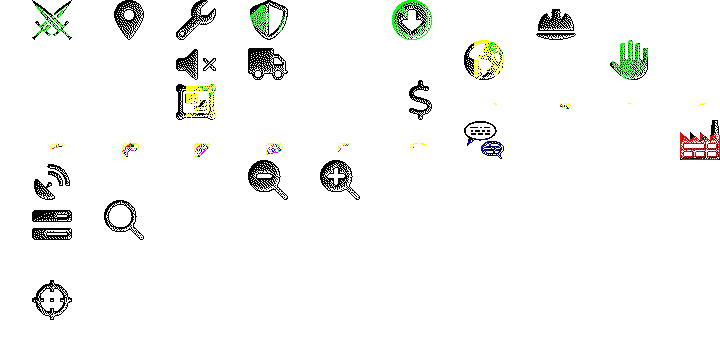
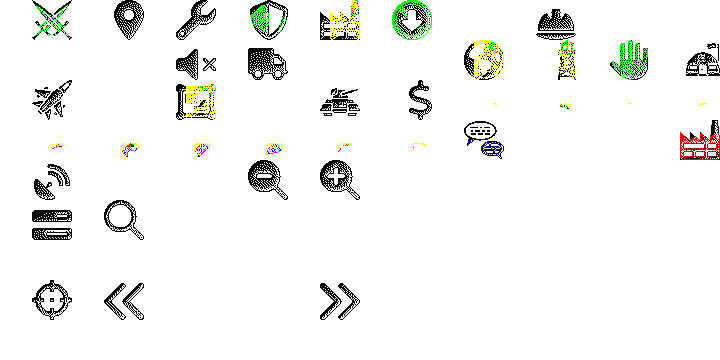
OpenRA: Dune 2000 overlay; each mod's production tabs and power down
A third set, openra_d2k_template, for OpenRA's Dune 2000 mod: the window
title "Dune 2000" under openra, and the Windows launcher Dune2000.exe. Its
ESC mark is OpenRA's d2k_256x256.png planet, outline lit and shading
dithered, beside OPEN D2K. It has no game-art reader.

The sets were built from mods/common/hotkeys only. Each mod also has its own
mods/<mod>/hotkeys.yaml with the production tab keys and power down, which
were missing:
- Red Alert: E buildings, R defenses, T infantry, Y vehicles, U aircraft,
  I naval, X power down
- Tiberian Dawn: E, R, T, Y, U as Red Alert; Page Up / Down previous / next tab
- Dune 2000: E buildings, R upgrades, T infantry, Y light vehicles,
  U aircraft, I tanks, O starport, X power down
gen_mods.py writes each mod's own block, and drops the game-art block for
Dune 2000. F1 to F12 stay out: they are the items of the open tab.

Claude-Session: https://claude.ai/code/session_01Hs9SNTuYKh6YvuVcPf5MKZ

diff --git a/polyhost/res/overlay_sources/openra/gen_mods.py b/polyhost/res/overlay_sources/openra/gen_mods.py
@@ -1,47 +1,100 @@
 #!/usr/bin/env python3
-"""Write openra_cnc.yaml (OpenRA, Tiberian Dawn mod) from openra_ra.yaml.
+"""Write openra_cnc.yaml (Tiberian Dawn) and openra_d2k.yaml (Dune 2000) from
+openra_ra.yaml.
 
-All OpenRA mods share their default keys, so only the name, the output file,
-the ESC mark and the game-art block differ; this copies the Red Alert spec,
-changes those lines and puts cnc_game_assets.yaml in place of its game-art
-block (everything from GAME_ASSETS on).
+All OpenRA mods share most of their default keys. Each copy changes the name,
+the output file and the ESC mark, puts the mod's own keys (production tabs,
+power down; mods/<mod>/hotkeys.yaml in OpenRA) in place of the Red Alert ones,
+and puts the mod's game-art block (or none) in place of the Red Alert block
+(everything from GAME_ASSETS on).
 
     python polyhost/res/overlay_sources/openra/gen_mods.py
 """
 from pathlib import Path
 
 HERE = Path(__file__).resolve().parent
-CHANGES = {
-    "app: openra_ra\n": "app: openra_cnc\n",
-    "output: openra_ra_template\n": "output: openra_cnc_template\n",
-    "program_icon: program_ra.png\n": "program_icon: program_cnc.png\n",
-}
+MOD_KEYS = "  # Production tabs and power: each mod's own keys"
+END_MOD_KEYS = "  # End of the mod keys"
 GAME_ASSETS = "# Keys redrawn from the user's own Red Alert files"
 
 
-def render() -> str:
-    """The text of openra_cnc.yaml for the current openra_ra.yaml."""
+def _tab(key, icon, label):
+    return f'  - {{ key: {key}, icon: {icon}.png, label: "{label}" }}\n'
+
+
+MODS = {
+    "cnc": {
+        "title": "Tiberian Dawn",
+        "keys": [_tab("E", "tabstructures", "Production tab: buildings"),
+                 _tab("R", "tabdefense", "Production tab: defenses"),
+                 _tab("T", "tabinfantry", "Production tab: infantry"),
+                 _tab("Y", "tabvehicles", "Production tab: vehicles"),
+                 _tab("U", "tabaircraft", "Production tab: aircraft"),
+                 _tab("PGUP", "prevtab", "Previous production tab"),
+                 _tab("PGDN", "nexttab", "Next production tab")],
+        "game_assets": "cnc_game_assets.yaml",
+    },
+    "d2k": {
+        "title": "Dune 2000",
+        "keys": [_tab("E", "tabstructures", "Production tab: buildings"),
+                 _tab("R", "tabupgrade", "Production tab: upgrades"),
+                 _tab("T", "tabinfantry", "Production tab: infantry"),
+                 _tab("Y", "tablight", "Production tab: light vehicles"),
+                 _tab("U", "tabaircraft", "Production tab: aircraft"),
+                 _tab("I", "tabvehicles", "Production tab: tanks"),
+                 _tab("O", "tabstarport", "Production tab: starport"),
+                 _tab("X", "powerdown", "Power down")],
+        "game_assets": None,                   # no reader for the Dune 2000 files
+    },
+}
+
+
+def render(mod: str) -> str:
+    """The text of openra_<mod>.yaml for the current openra_ra.yaml."""
+    spec = MODS[mod]
+    changes = {
+        "app: openra_ra\n": f"app: openra_{mod}\n",
+        "output: openra_ra_template\n": f"output: openra_{mod}_template\n",
+        "program_icon: program_ra.png\n": f"program_icon: program_{mod}.png\n",
+    }
     lines = (HERE / "openra_ra.yaml").read_text(encoding="utf-8").splitlines(keepends=True)
     out = ["# GENERATED by gen_mods.py from openra_ra.yaml -- edit that file, not this one.\n",
-           "# OpenRA, Tiberian Dawn mod.\n"]
-    seen = set()
+           f"# OpenRA, {spec['title']} mod.\n"]
+    seen, in_keys = set(), False
     for line in lines:
         if line.startswith(GAME_ASSETS):
             seen.add(GAME_ASSETS)
-            out.append((HERE / "cnc_game_assets.yaml").read_text(encoding="utf-8"))
+            if spec["game_assets"]:
+                out.append((HERE / spec["game_assets"]).read_text(encoding="utf-8"))
+            else:
+                while out and out[-1] == "\n":   # no blank line left at the end
+                    out.pop()
             break
-        if line in CHANGES:
+        if line.startswith(MOD_KEYS):
+            seen.add(MOD_KEYS)
+            in_keys = True
+            out.append(line)
+            out.extend(spec["keys"])
+            continue
+        if in_keys:
+            if line.startswith(END_MOD_KEYS):
+                seen.add(END_MOD_KEYS)
+                in_keys = False
+                out.append(line)
+            continue
+        if line in changes:
             seen.add(line)
-            line = CHANGES[line]
+            line = changes[line]
         out.append(line)
-    missing = (set(CHANGES) | {GAME_ASSETS}) - seen
+    missing = (set(changes) | {GAME_ASSETS, MOD_KEYS, END_MOD_KEYS}) - seen
     assert not missing, f"openra_ra.yaml no longer has: {missing}"
     return "".join(out)
 
 
 def main() -> int:
-    (HERE / "openra_cnc.yaml").write_text(render(), encoding="utf-8")
-    print("openra_cnc.yaml written")
+    for mod in MODS:
+        (HERE / f"openra_{mod}.yaml").write_text(render(mod), encoding="utf-8")
+        print(f"openra_{mod}.yaml written")
     return 0
 
 

diff --git a/polyhost/res/overlay_sources/openra/fetch_icons.py b/polyhost/res/overlay_sources/openra/fetch_icons.py
@@ -32,6 +32,7 @@ CNC_ICONS = Path(__file__).resolve().parents[1] / "cnc_remastered" / "icons"
 
 # The same action as in the C&C Remastered overlay: the same picture.
 SHARED = ["stop", "guard", "scatter", "selectall", "conyard", "lastevent", "tabstructures",
+          "tabinfantry", "tabvehicles",
           *(f"bookmark{n}" for n in "1234"), *(f"bookmarkset{n}" for n in "1234")]
 
 ICONS = {
@@ -47,6 +48,16 @@ ICONS = {
     "harvesters": "fa:truck",
     "toselection": "fa:crosshairs",
     "cycleproduction": "fa:industry",
+    # Production tabs (each mod's own keys, gen_mods.py) and power
+    "tabdefense": "gi:delapouite/watchtower",
+    "tabaircraft": "gi:delapouite/jet-fighter",
+    "tabnaval": "fa:ship",
+    "tabupgrade": "gi:delapouite/upgrade",
+    "tablight": "gi:delapouite/jeep",
+    "tabstarport": "gi:delapouite/space-shuttle",
+    "prevtab": "fa:angles-left",
+    "nexttab": "fa:angles-right",
+    "powerdown": "fa:power-off",
     # Base
     "sell": "fa:dollar-sign",
     "repair": "fa:wrench",
@@ -63,10 +74,12 @@ ICONS = {
     "allchat": "gi:delapouite/megaphone",
 }
 
-# OpenRA's mod logos, GPL-3.0 like the rest of the OpenRA repository.
-LOGO_URL = ("https://raw.githubusercontent.com/OpenRA/OpenRA/"
-            "cd207614b55d53bd2897408386fcec8a1f48cce0/packaging/artwork/{}_scalable.svg")
-MODS = {"ra": "RA", "cnc": "C&C"}          # logo file stem -> the name beside it
+# OpenRA's mod logos, GPL-3.0 like the rest of the OpenRA repository. Dune 2000
+# has no SVG logo there, only PNGs; the 256 px one is used.
+ARTWORK = ("https://raw.githubusercontent.com/OpenRA/OpenRA/"
+           "cd207614b55d53bd2897408386fcec8a1f48cce0/packaging/artwork/")
+LOGOS = {"ra": "ra_scalable.svg", "cnc": "cnc_scalable.svg", "d2k": "d2k_256x256.png"}
+MODS = {"ra": "RA", "cnc": "C&C", "d2k": "D2K"}   # logo file stem -> the name beside it
 
 MARK = 13                                   # size of a group's modifier mark, px
 
@@ -122,14 +135,21 @@ def programs(out: Path) -> None:
     import numpy as np
     from PIL import Image
     for stem, name in MODS.items():
-        svg = _get(LOGO_URL.format(stem))
-        im = Image.open(io.BytesIO(cairosvg.svg2png(bytestring=svg, output_width=320, output_height=320)))
+        data = _get(ARTWORK + LOGOS[stem])
+        if LOGOS[stem].endswith(".svg"):
+            data = cairosvg.svg2png(bytestring=data, output_width=320, output_height=320)
+        im = Image.open(io.BytesIO(data))
         a = np.asarray(im.convert("RGBA")).astype(float) / 255
         lum = a[..., :3] @ [0.299, 0.587, 0.114]
-        ink = Image.fromarray((((a[..., 3] > 0.5) & (lum < 0.4)) * 255).astype(np.uint8))
-        ink = ink.crop(ink.getbbox())
-        s = min(36 / ink.width, 36 / ink.height)
-        logo = np.asarray(ink.resize((round(ink.width * s), round(ink.height * s)), Image.LANCZOS)) > 127
+        if LOGOS[stem].endswith(".svg"):
+            ink = Image.fromarray((((a[..., 3] > 0.5) & (lum < 0.4)) * 255).astype(np.uint8))
+            ink = ink.crop(ink.getbbox())
+            s = min(36 / ink.width, 36 / ink.height)
+            logo = np.asarray(ink.resize((round(ink.width * s), round(ink.height * s)), Image.LANCZOS)) > 127
+        else:
+            # A shaded picture (the planet and its moons) has no linework: its
+            # outline is lit and its shading dithered, as for the unit icons.
+            logo = dither.keycap(lum, a[..., 3] > 0.5, (36, 36), lo_p=5, hi_p=95, curve=0.6)
         w, h = program_mark.W, program_mark.H
         canvas = np.zeros((h, w), bool)
         y = (h - logo.shape[0]) // 2
@@ -147,7 +167,7 @@ def programs(out: Path) -> None:
             canvas[y:y + m.shape[0], x:x + m.shape[1]] = m
             y += m.shape[0] + 3
         cnc._save_mask(canvas, out / f"program_{stem}.png")
-        print(f"  program_{stem}.png  <- OpenRA {stem}_scalable.svg + OPEN {name}")
+        print(f"  program_{stem}.png  <- OpenRA {LOGOS[stem]} + OPEN {name}")
 
 
 def main() -> int:

diff --git a/tests/services/game_assets_ra_test.py b/tests/services/game_assets_ra_test.py
@@ -273,13 +273,14 @@ class OpenRaSpecTest(unittest.TestCase):
                     if base is not None:
                         self.assertIn(base, got, f"{stem} marks nothing")
 
-    def test_the_tiberian_dawn_spec_is_generated_from_the_current_files(self):
+    def test_the_other_mods_specs_are_generated_from_the_current_files(self):
         import importlib.util
         spec = importlib.util.spec_from_file_location("gen_mods", SOURCES / "gen_mods.py")
         gen = importlib.util.module_from_spec(spec)
         spec.loader.exec_module(gen)
-        self.assertEqual(gen.render(), TD_SPEC.read_text(encoding="utf-8"),
-                         "run overlay_sources/openra/gen_mods.py")
+        for mod in gen.MODS:
+            self.assertEqual(gen.render(mod), (SOURCES / f"openra_{mod}.yaml").read_text(encoding="utf-8"),
+                             "run overlay_sources/openra/gen_mods.py")
 
     def test_the_mapping_registers_both_overlays_and_the_nested_one(self):
         import yaml

diff --git a/polyhost/res/overlay_sources/openra/SOURCES.md b/polyhost/res/overlay_sources/openra/SOURCES.md
@@ -1,27 +1,44 @@
 # OpenRA overlay: sources
 
-`fetch_icons.py` rebuilds `icons/`, `gen_mods.py` writes `openra_cnc.yaml` from
-`openra_ra.yaml`, and `scripts/generate_app_overlays.py` renders both.
+`fetch_icons.py` rebuilds `icons/`, `gen_mods.py` writes `openra_cnc.yaml` and
+`openra_d2k.yaml` from `openra_ra.yaml`, and `scripts/generate_app_overlays.py`
+renders all three.
 
 | Set | Loads for |
 |---|---|
 | `openra_ra_template` (2 files) | OpenRA's Red Alert mod, and any OpenRA window whose title names no other mod; the Combined Arms Snap (`openra-ca-<version>`); the Windows launcher `RedAlert.exe` |
 | `openra_cnc_template` (2 files) | OpenRA's Tiberian Dawn mod: a title containing "Tiberian Dawn"; the Windows launcher `TiberianDawn.exe` |
+| `openra_d2k_template` (2 files) | OpenRA's Dune 2000 mod: a title containing "Dune 2000"; the Windows launcher `Dune2000.exe` |
 
 The Flatpak (`net.openra.OpenRA`) reports `openra` for every mod, with the
 title `OpenRA - Red Alert` (measured 2026-10-28 on Linux). The Tiberian Dawn
-title is assumed to follow the same pattern; it was not seen. The Combined Arms
-Snap reports `openra-ca-1.08.2` and the title `OpenRA Combined Arms`; the
-matcher drops the trailing version (`overlay-mapping.md`). On Windows the
-installer starts each mod through its own launcher (`RedAlert.exe`,
-`TiberianDawn.exe`, `packaging/windows/buildpackage.sh`); those names were not
-seen on an install.
+and Dune 2000 titles are assumed to follow the same pattern; they were not
+seen. The Combined Arms Snap reports `openra-ca-1.08.2` and the title `OpenRA
+Combined Arms`; the matcher drops the trailing version (`overlay-mapping.md`).
+On Windows the installer starts each mod through its own launcher
+(`RedAlert.exe`, `TiberianDawn.exe`, `Dune2000.exe`,
+`packaging/windows/buildpackage.sh`); those names were not seen on an install.
 
 ## Shortcut reference
 
 OpenRA's default hotkeys, `mods/common/hotkeys/*.yaml` in
-<https://github.com/OpenRA/OpenRA> (bleed, commit cd20761, 2026-10-28). Every
-mod loads these files, so the two sets differ only in the ESC mark. In OpenRA
+<https://github.com/OpenRA/OpenRA> (bleed, commit cd20761, 2026-10-28), which
+every mod loads, and each mod's own `mods/<mod>/hotkeys.yaml`: the production
+tabs and power down. `gen_mods.py` writes each mod's own keys:
+
+| Key | Red Alert | Tiberian Dawn | Dune 2000 |
+|---|---|---|---|
+| E | buildings | buildings | buildings |
+| R | defenses | defenses | upgrades |
+| T | infantry | infantry | infantry |
+| Y | vehicles | vehicles | light vehicles |
+| U | aircraft | aircraft | aircraft |
+| I | naval | | tanks |
+| O | | | starport |
+| X | power down | | power down |
+| Page Up / Page Down | | previous / next tab | |
+
+In OpenRA
 the letter orders do not depend on the selection (A attack move, S stop, D
 guard, F deploy, Alt+A/S/D/F stances), so they are labelled, unlike in the
 original games.
@@ -32,7 +49,8 @@ the group to the selection (a plus in a square), Alt jumps to it (a sight).
 
 ## Left out
 
-- F1 to F12 and Ctrl+F1 to Ctrl+F12: production tabs, which differ per mod.
+- F1 to F12 and Ctrl+F1 to Ctrl+F12: the items of the open production tab,
+  which change with the tab.
 - Pause, the media keys and Enter on the keypad (quick save): no overlay cell.
 - The arrow keys and Alt+arrows (scroll, jump to the map edge): they keep their
   own legends.
@@ -57,7 +75,15 @@ OpenRA repository, compatible with this host's GPL-3.0-or-later.
 | `selectall.png` | copied from `../cnc_remastered/icons/` | see `../cnc_remastered/SOURCES.md` | |
 | `conyard.png` | copied from `../cnc_remastered/icons/` | see `../cnc_remastered/SOURCES.md` | |
 | `lastevent.png` | copied from `../cnc_remastered/icons/` | see `../cnc_remastered/SOURCES.md` | |
-| `tabstructures.png` | copied from `../cnc_remastered/icons/` | see `../cnc_remastered/SOURCES.md` | |
+| `tabstructures.png`, `tabinfantry.png`, `tabvehicles.png` | copied from `../cnc_remastered/icons/` | see `../cnc_remastered/SOURCES.md` | |
+| `tabdefense.png` | game-icons.net `delapouite/watchtower` | delapouite | CC BY 3.0 |
+| `tabaircraft.png` | game-icons.net `delapouite/jet-fighter` | delapouite | CC BY 3.0 |
+| `tabnaval.png` | Font Awesome Free 6.5.2 `ship` (solid) | Fonticons, Inc. | CC BY 4.0 |
+| `tabupgrade.png` | game-icons.net `delapouite/upgrade` | delapouite | CC BY 3.0 |
+| `tablight.png` | game-icons.net `delapouite/jeep` | delapouite | CC BY 3.0 |
+| `tabstarport.png` | game-icons.net `delapouite/space-shuttle` | delapouite | CC BY 3.0 |
+| `prevtab.png`, `nexttab.png` | Font Awesome Free 6.5.2 `angles-left`, `angles-right` (solid) | Fonticons, Inc. | CC BY 4.0 |
+| `powerdown.png` | Font Awesome Free 6.5.2 `power-off` (solid) | Fonticons, Inc. | CC BY 4.0 |
 | `bookmark1.png` | copied from `../cnc_remastered/icons/` | see `../cnc_remastered/SOURCES.md` | |
 | `bookmark2.png` | copied from `../cnc_remastered/icons/` | see `../cnc_remastered/SOURCES.md` | |
 | `bookmark3.png` | copied from `../cnc_remastered/icons/` | see `../cnc_remastered/SOURCES.md` | |
@@ -91,11 +117,13 @@ OpenRA repository, compatible with this host's GPL-3.0-or-later.
 | `groupadd*.png`, `groupcombine*.png`, `groupjump*.png` | the C&C group icons with a mark drawn by `fetch_icons.py` | | GPL-2.0-or-later |
 | `program_ra.png` | OpenRA `packaging/artwork/ra_scalable.svg` (commit cd20761) + text in Black Ops One | OpenRA developers; Black Ops One by James Grieshaber | GPL-3.0; SIL OFL 1.1 |
 | `program_cnc.png` | OpenRA `packaging/artwork/cnc_scalable.svg` (commit cd20761) + text in Black Ops One | OpenRA developers; Black Ops One by James Grieshaber | GPL-3.0; SIL OFL 1.1 |
+| `program_d2k.png` | OpenRA `packaging/artwork/d2k_256x256.png` (commit cd20761), outline lit and shading dithered, + text in Black Ops One | OpenRA developers; Black Ops One by James Grieshaber | GPL-3.0; SIL OFL 1.1 |
 
 ## Keys drawn from the game files
 
 When OpenRA has installed the original game files, the host draws 57 keys of
-each overlay from the game's own sprites instead. The shipped files above stay
+the Red Alert and Tiberian Dawn overlays from the game's own sprites instead.
+The Dune 2000 set has no reader; it always shows the shipped icons. The shipped files above stay
 the fallback and are the only art in the repository. The game's sprites are
 never shipped: the host reads them from the user's machine, writes the patched
 copies to the user's cache directory, and sends them only to the keyboard.
